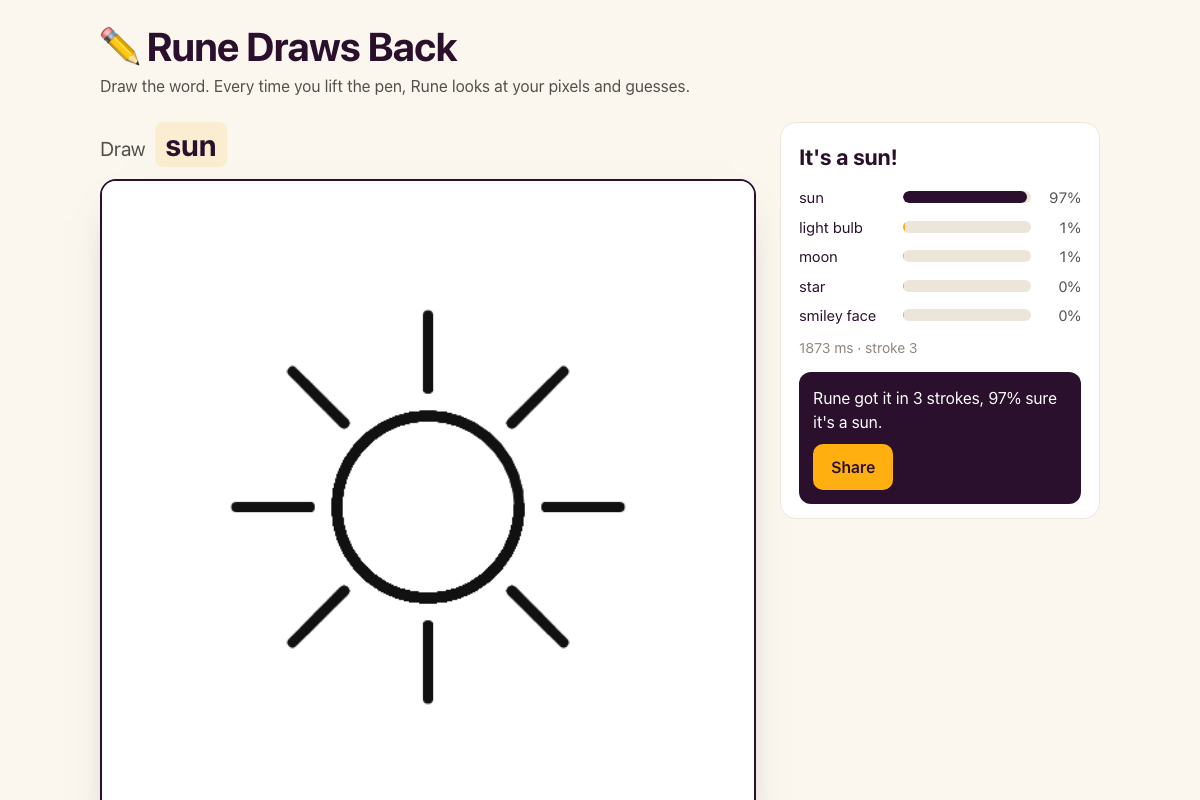
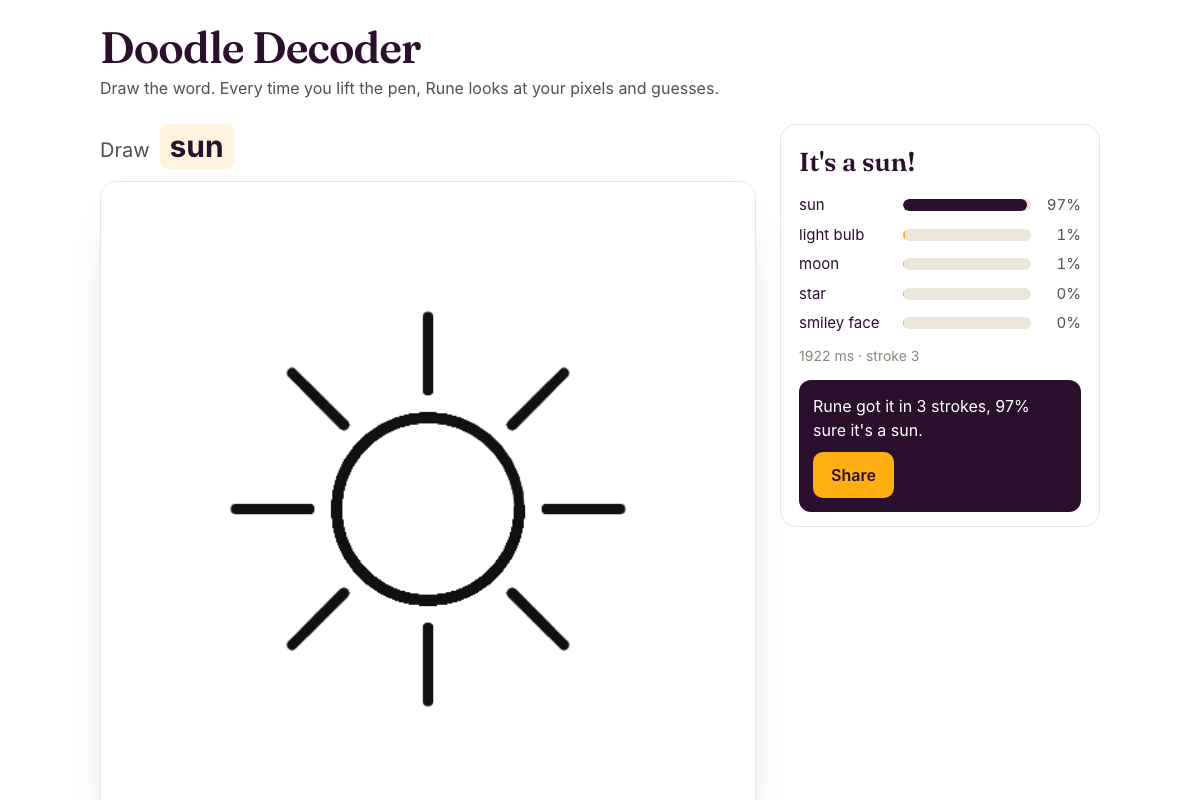
fix(labs): white demos in dark mode, "Try the demos" jumps to the section, new screenshots
- Embeds link to ?__theme=light so the Gradio demos stay white in a
  dark-mode browser.
- "Try the demos" goes to #demos instead of the first demo's anchor.
- All five card screenshots retaken in the white design.

diff --git a/lib/labs.js b/lib/labs.js
@@ -19,10 +19,11 @@ const LOCAL_PORTS = {
 
 export const space = (name) => ({
   page: `https://huggingface.co/spaces/surogate/${name}`,
+  // ?__theme=light keeps Gradio white in a dark-mode browser; the static Spaces ignore it.
   embed:
     process.env.NEXT_PUBLIC_LABS_EMBED === 'local' && LOCAL_PORTS[name]
-      ? `http://127.0.0.1:${LOCAL_PORTS[name]}/`
-      : `https://surogate-${name}.hf.space`,
+      ? `http://127.0.0.1:${LOCAL_PORTS[name]}/?__theme=light`
+      : `https://surogate-${name}.hf.space/?__theme=light`,
 });
 
 export const RUNE = {

diff --git a/components/labs/RuneExamplesClient.jsx b/components/labs/RuneExamplesClient.jsx
@@ -36,7 +36,7 @@ export default function RuneExamplesClient() {
             <div className="hero-actions reveal d3">
               <a
                 className="btn btn-primary"
-                href={`#${RUNE_DEMOS[0].slug}`}
+                href="#demos"
                 onClick={() => track('labs_cta_clicked', { cta: 'try_demos' })}
               >
                 <ArrowDown size={18} strokeWidth={2} aria-hidden="true" />
